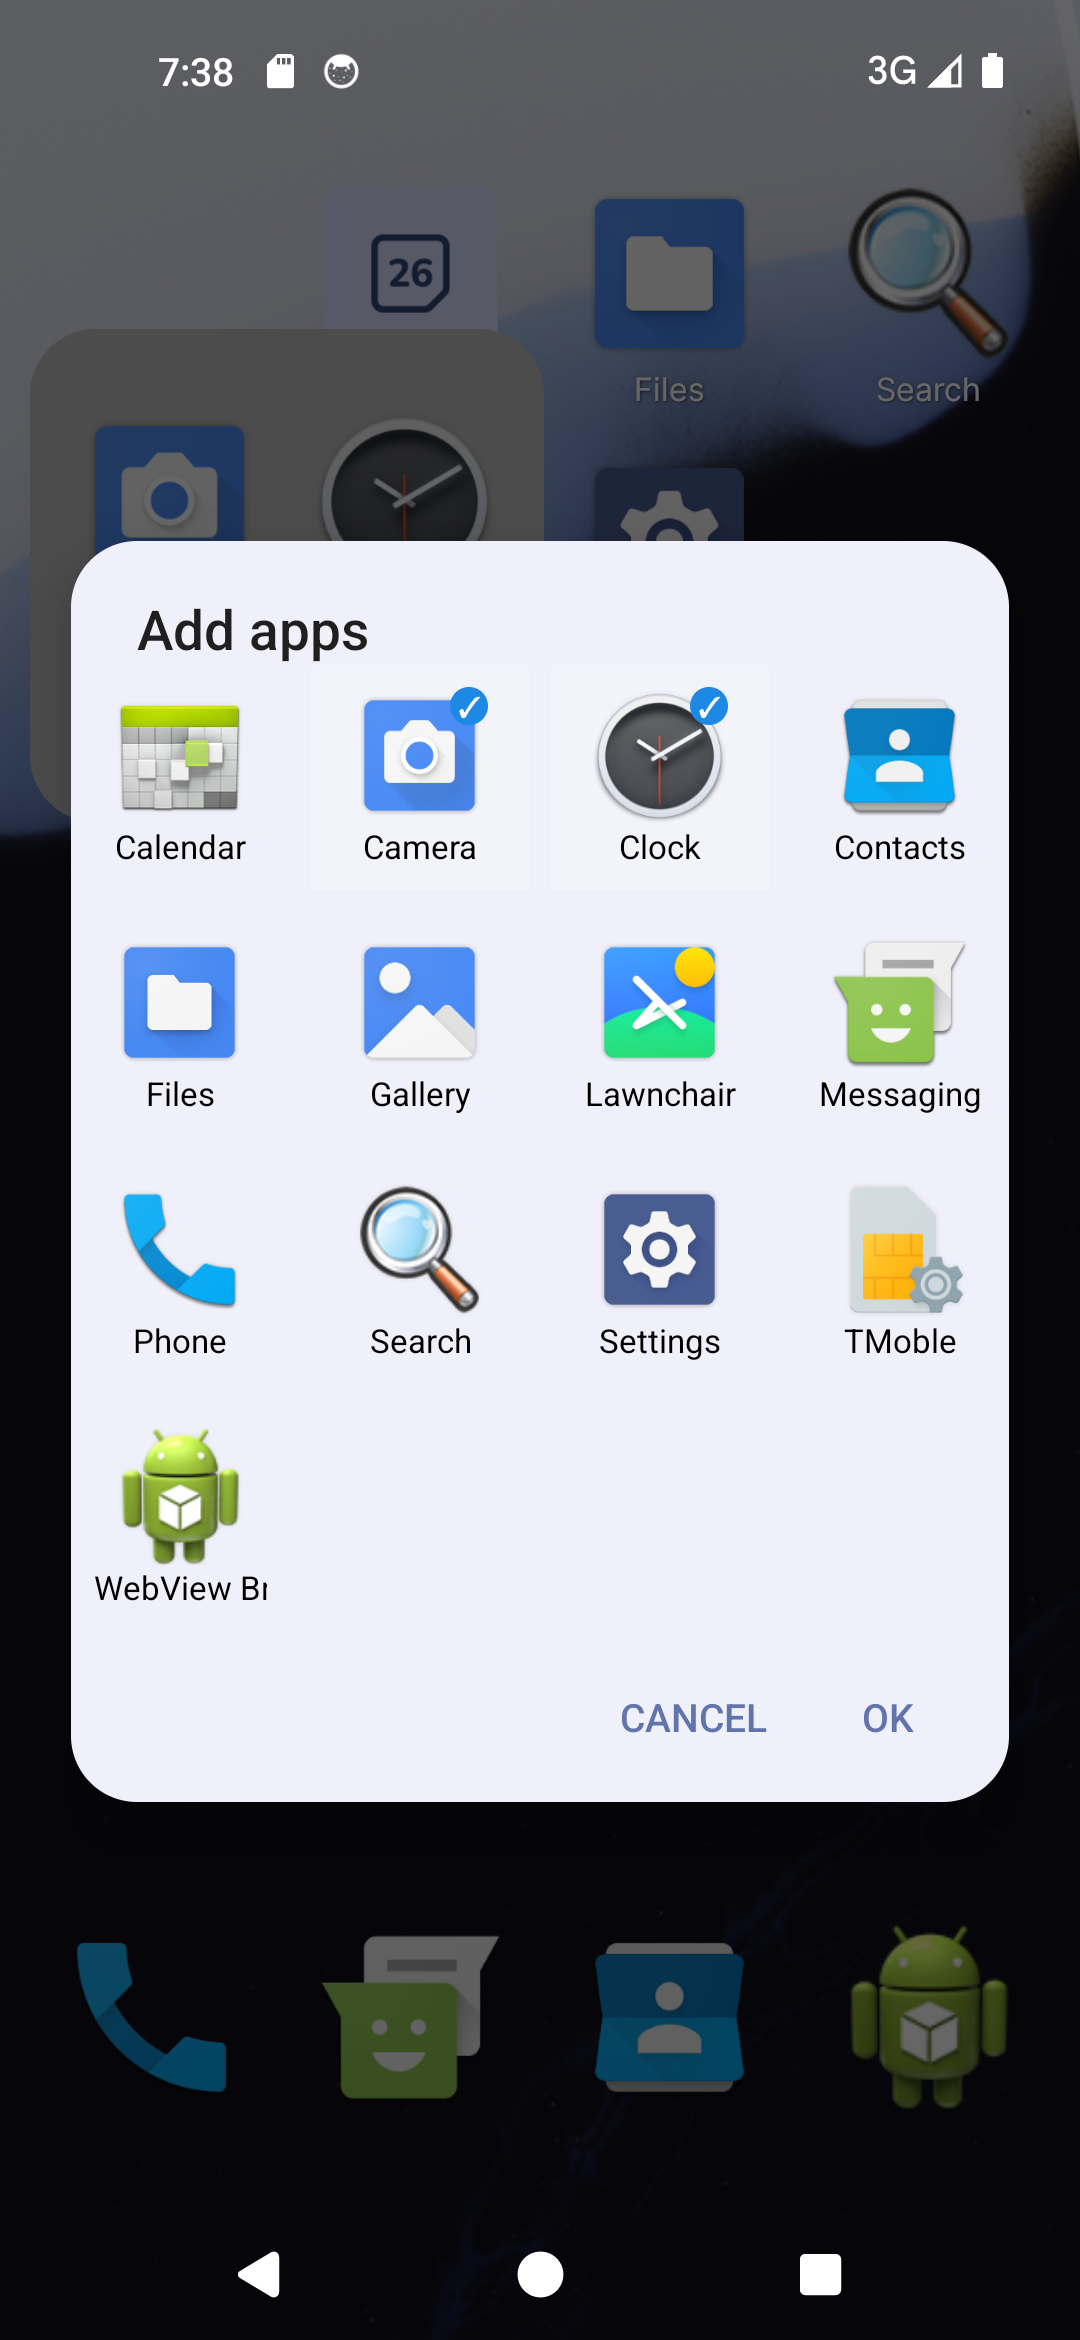
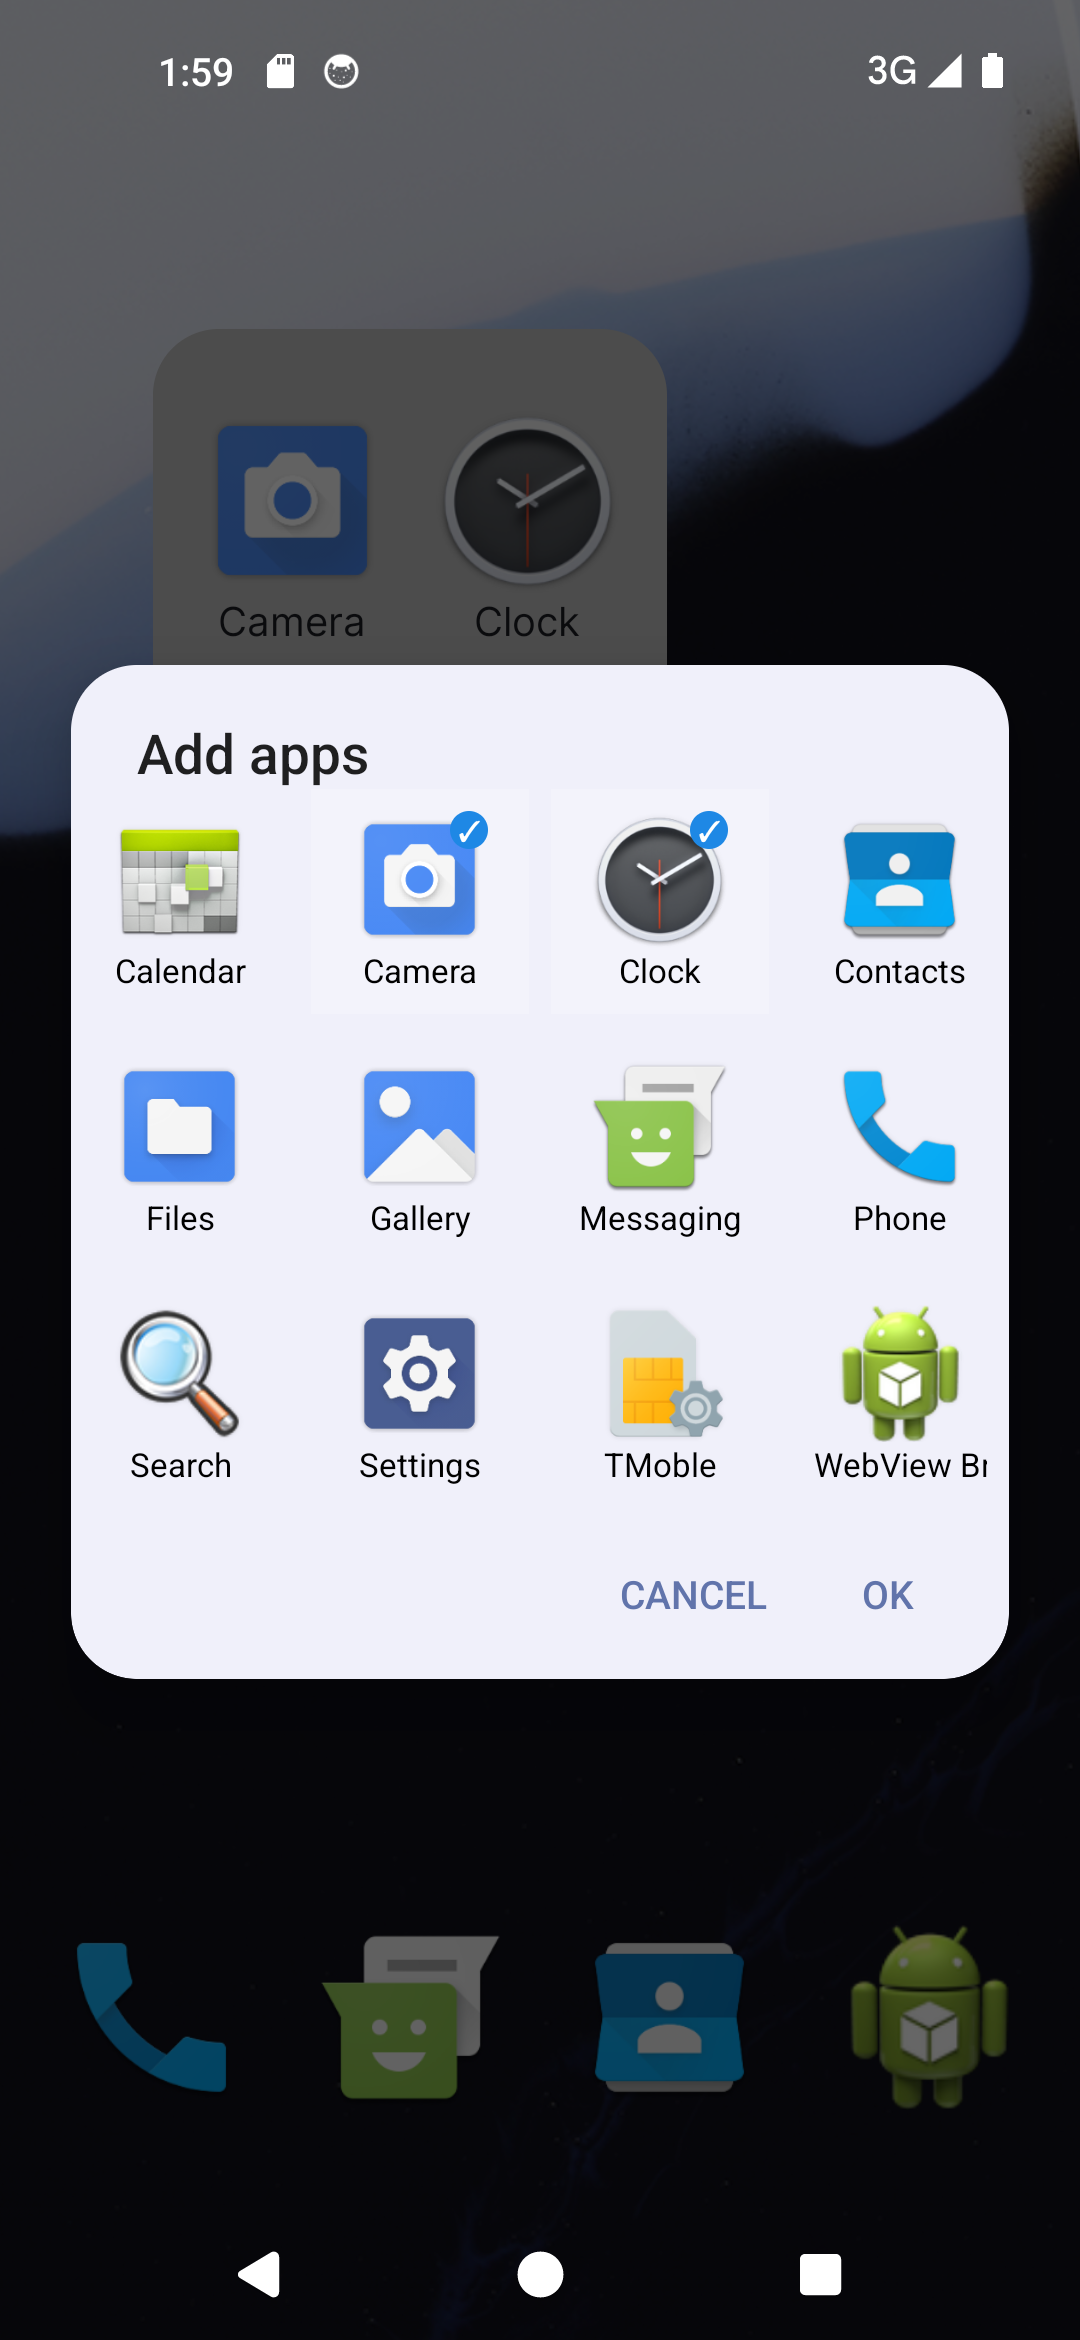
Stop listing the launcher itself in folder & drawer; refresh Add apps screenshot
AppFilter now drops the host package at the shared chokepoint, so the
launcher's own activities (including the AI-control shortcut host alias,
a second MAIN/LAUNCHER component) no longer appear in the app drawer or
in the folder "Add apps" dialog.

Replaced docs/assets/screenshots/folder-add-apps.png with a fresh capture
that reflects the fixed app list (no Lawnchair tile).

diff --git a/src/com/android/launcher3/AppFilter.java b/src/com/android/launcher3/AppFilter.java
@@ -18,8 +18,10 @@ import app.lawnchair.preferences2.PreferenceManager2;
 public class AppFilter {
 
     private final Set<ComponentName> mFilteredComponents;
+    private final String mHostPackageName;
 
     public AppFilter(Context context) {
+        mHostPackageName = context.getPackageName();
         mFilteredComponents = Arrays.stream(
                 context.getResources().getStringArray(R.array.filtered_components))
                 .map(ComponentName::unflattenFromString)
@@ -27,6 +29,13 @@ public class AppFilter {
     }
 
     public boolean shouldShowApp(ComponentName app) {
+        // Never list the launcher itself. filtered_components only drops the main
+        // launcher activity, but this package also exposes the AI-control shortcut
+        // host alias (a second MAIN/LAUNCHER component), so exclude the whole host
+        // package at the shared chokepoint used by the drawer and every picker.
+        if (mHostPackageName.equals(app.getPackageName())) {
+            return false;
+        }
         return !mFilteredComponents.contains(app);
     }
 }
